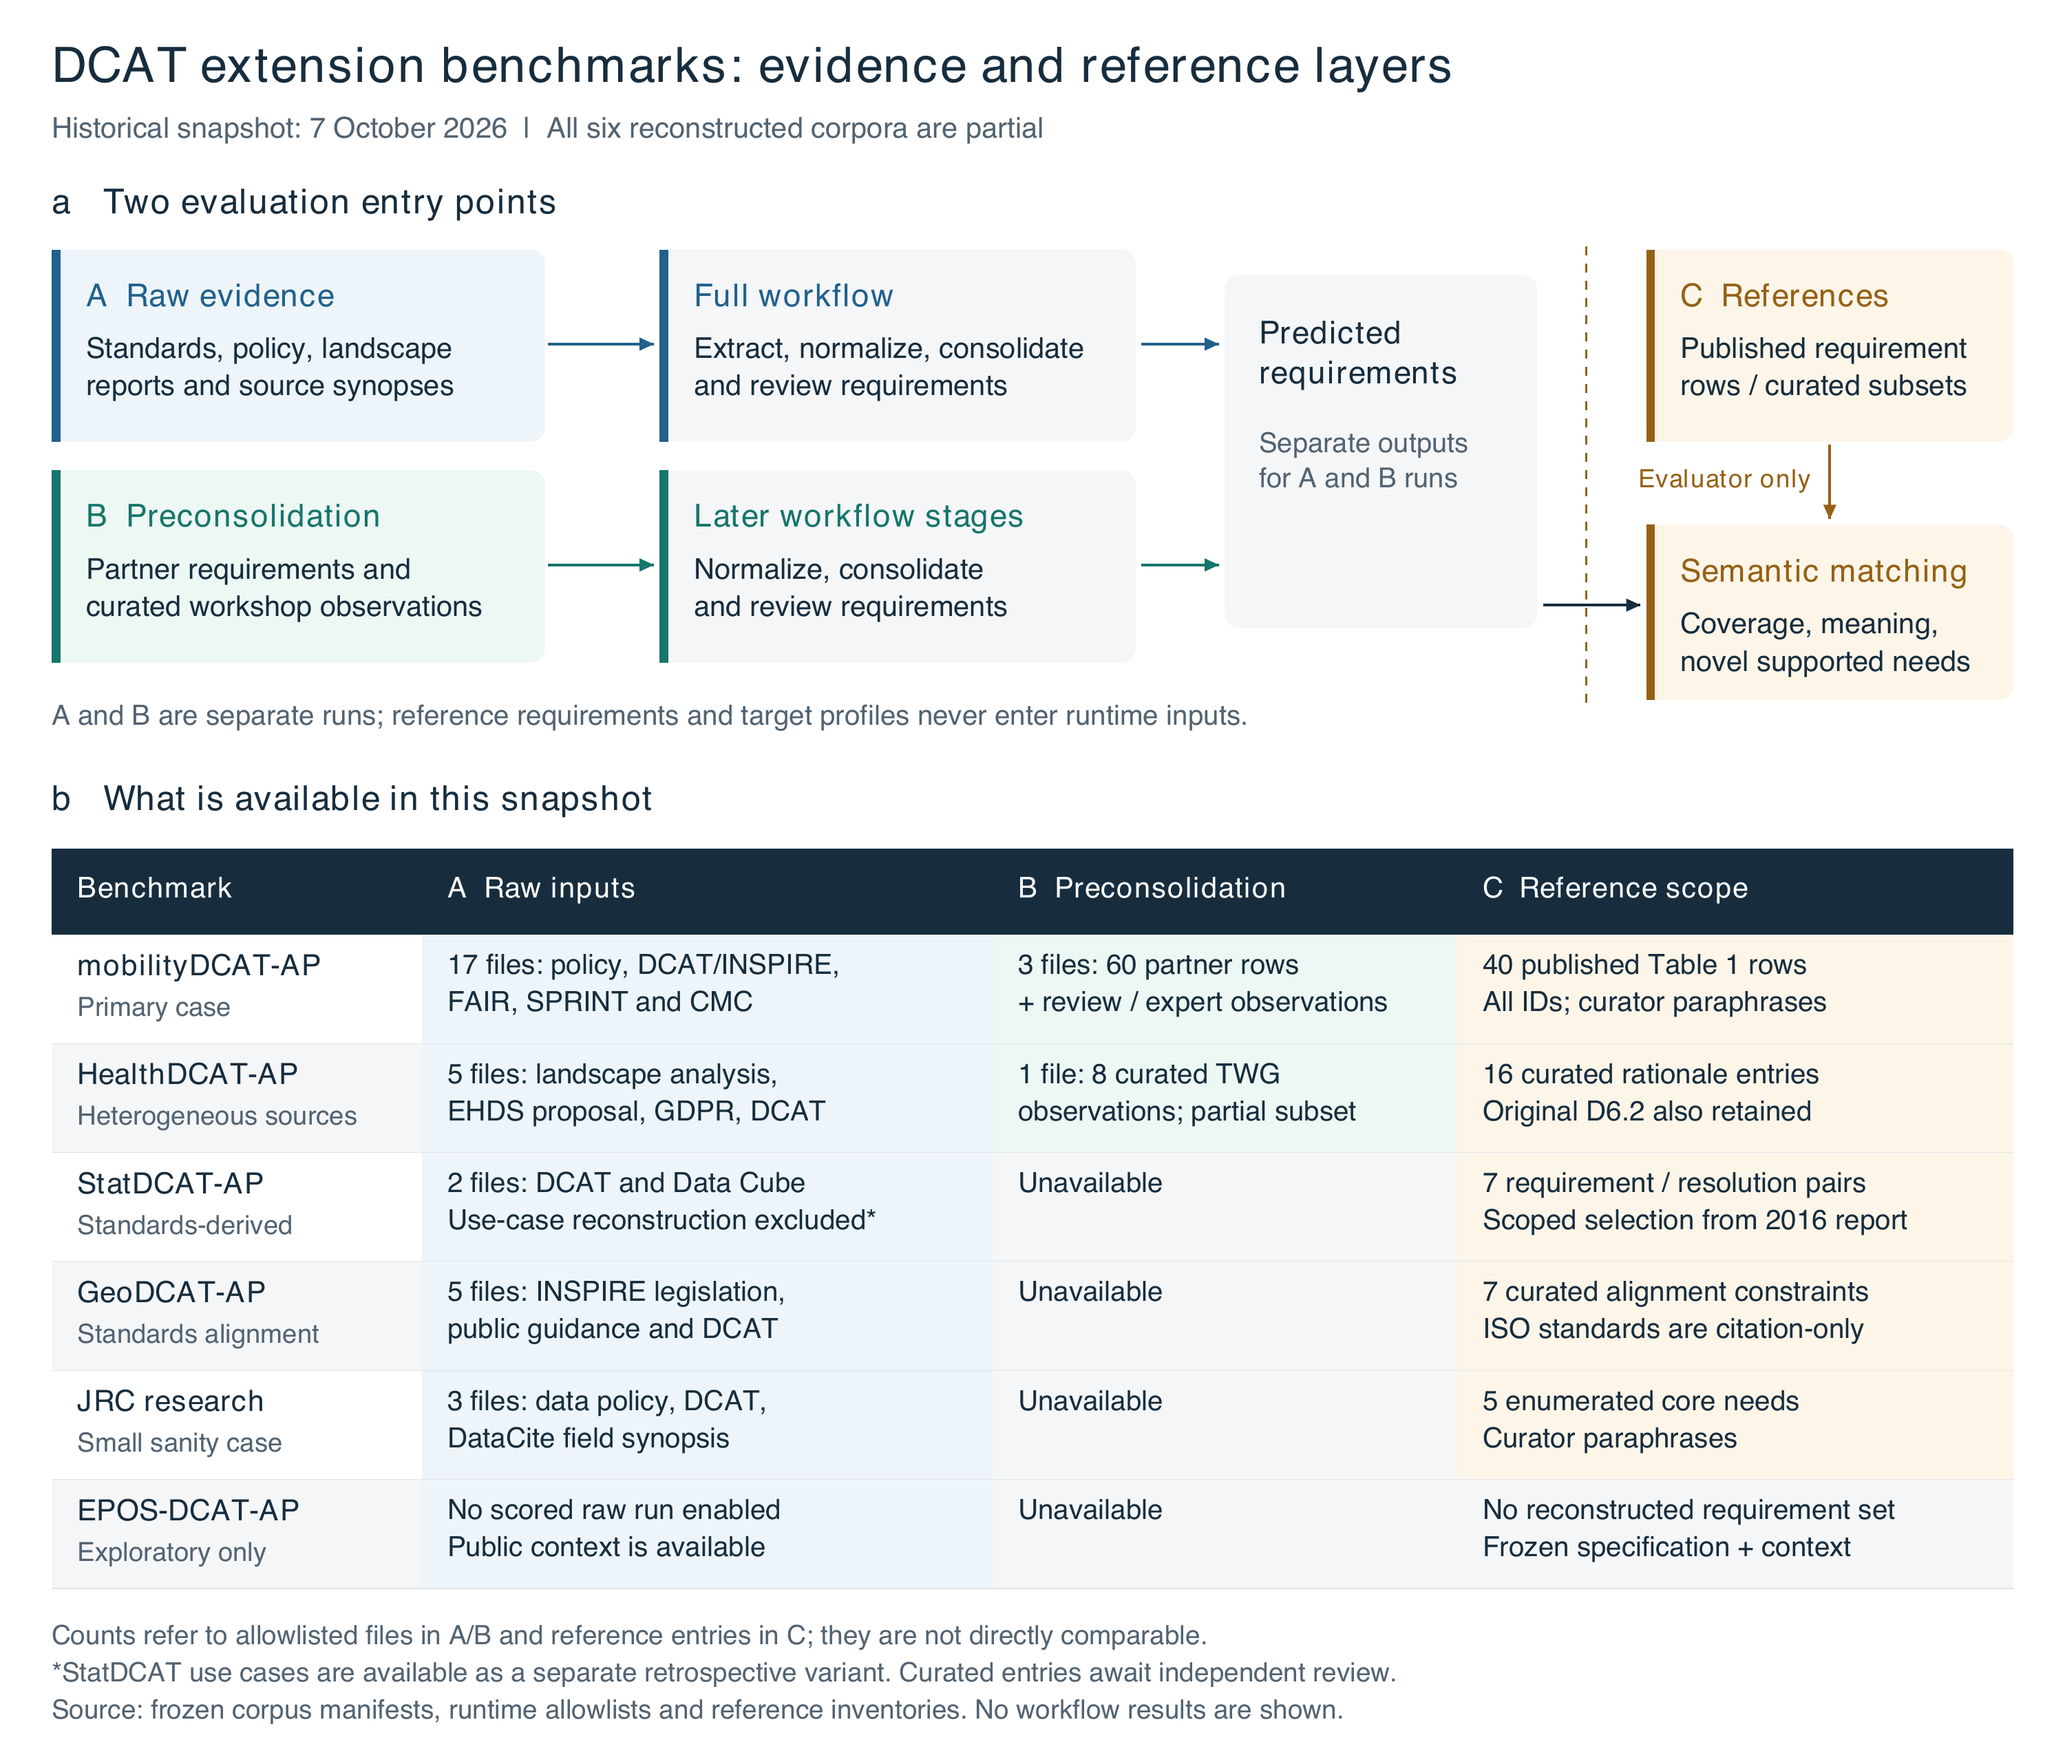
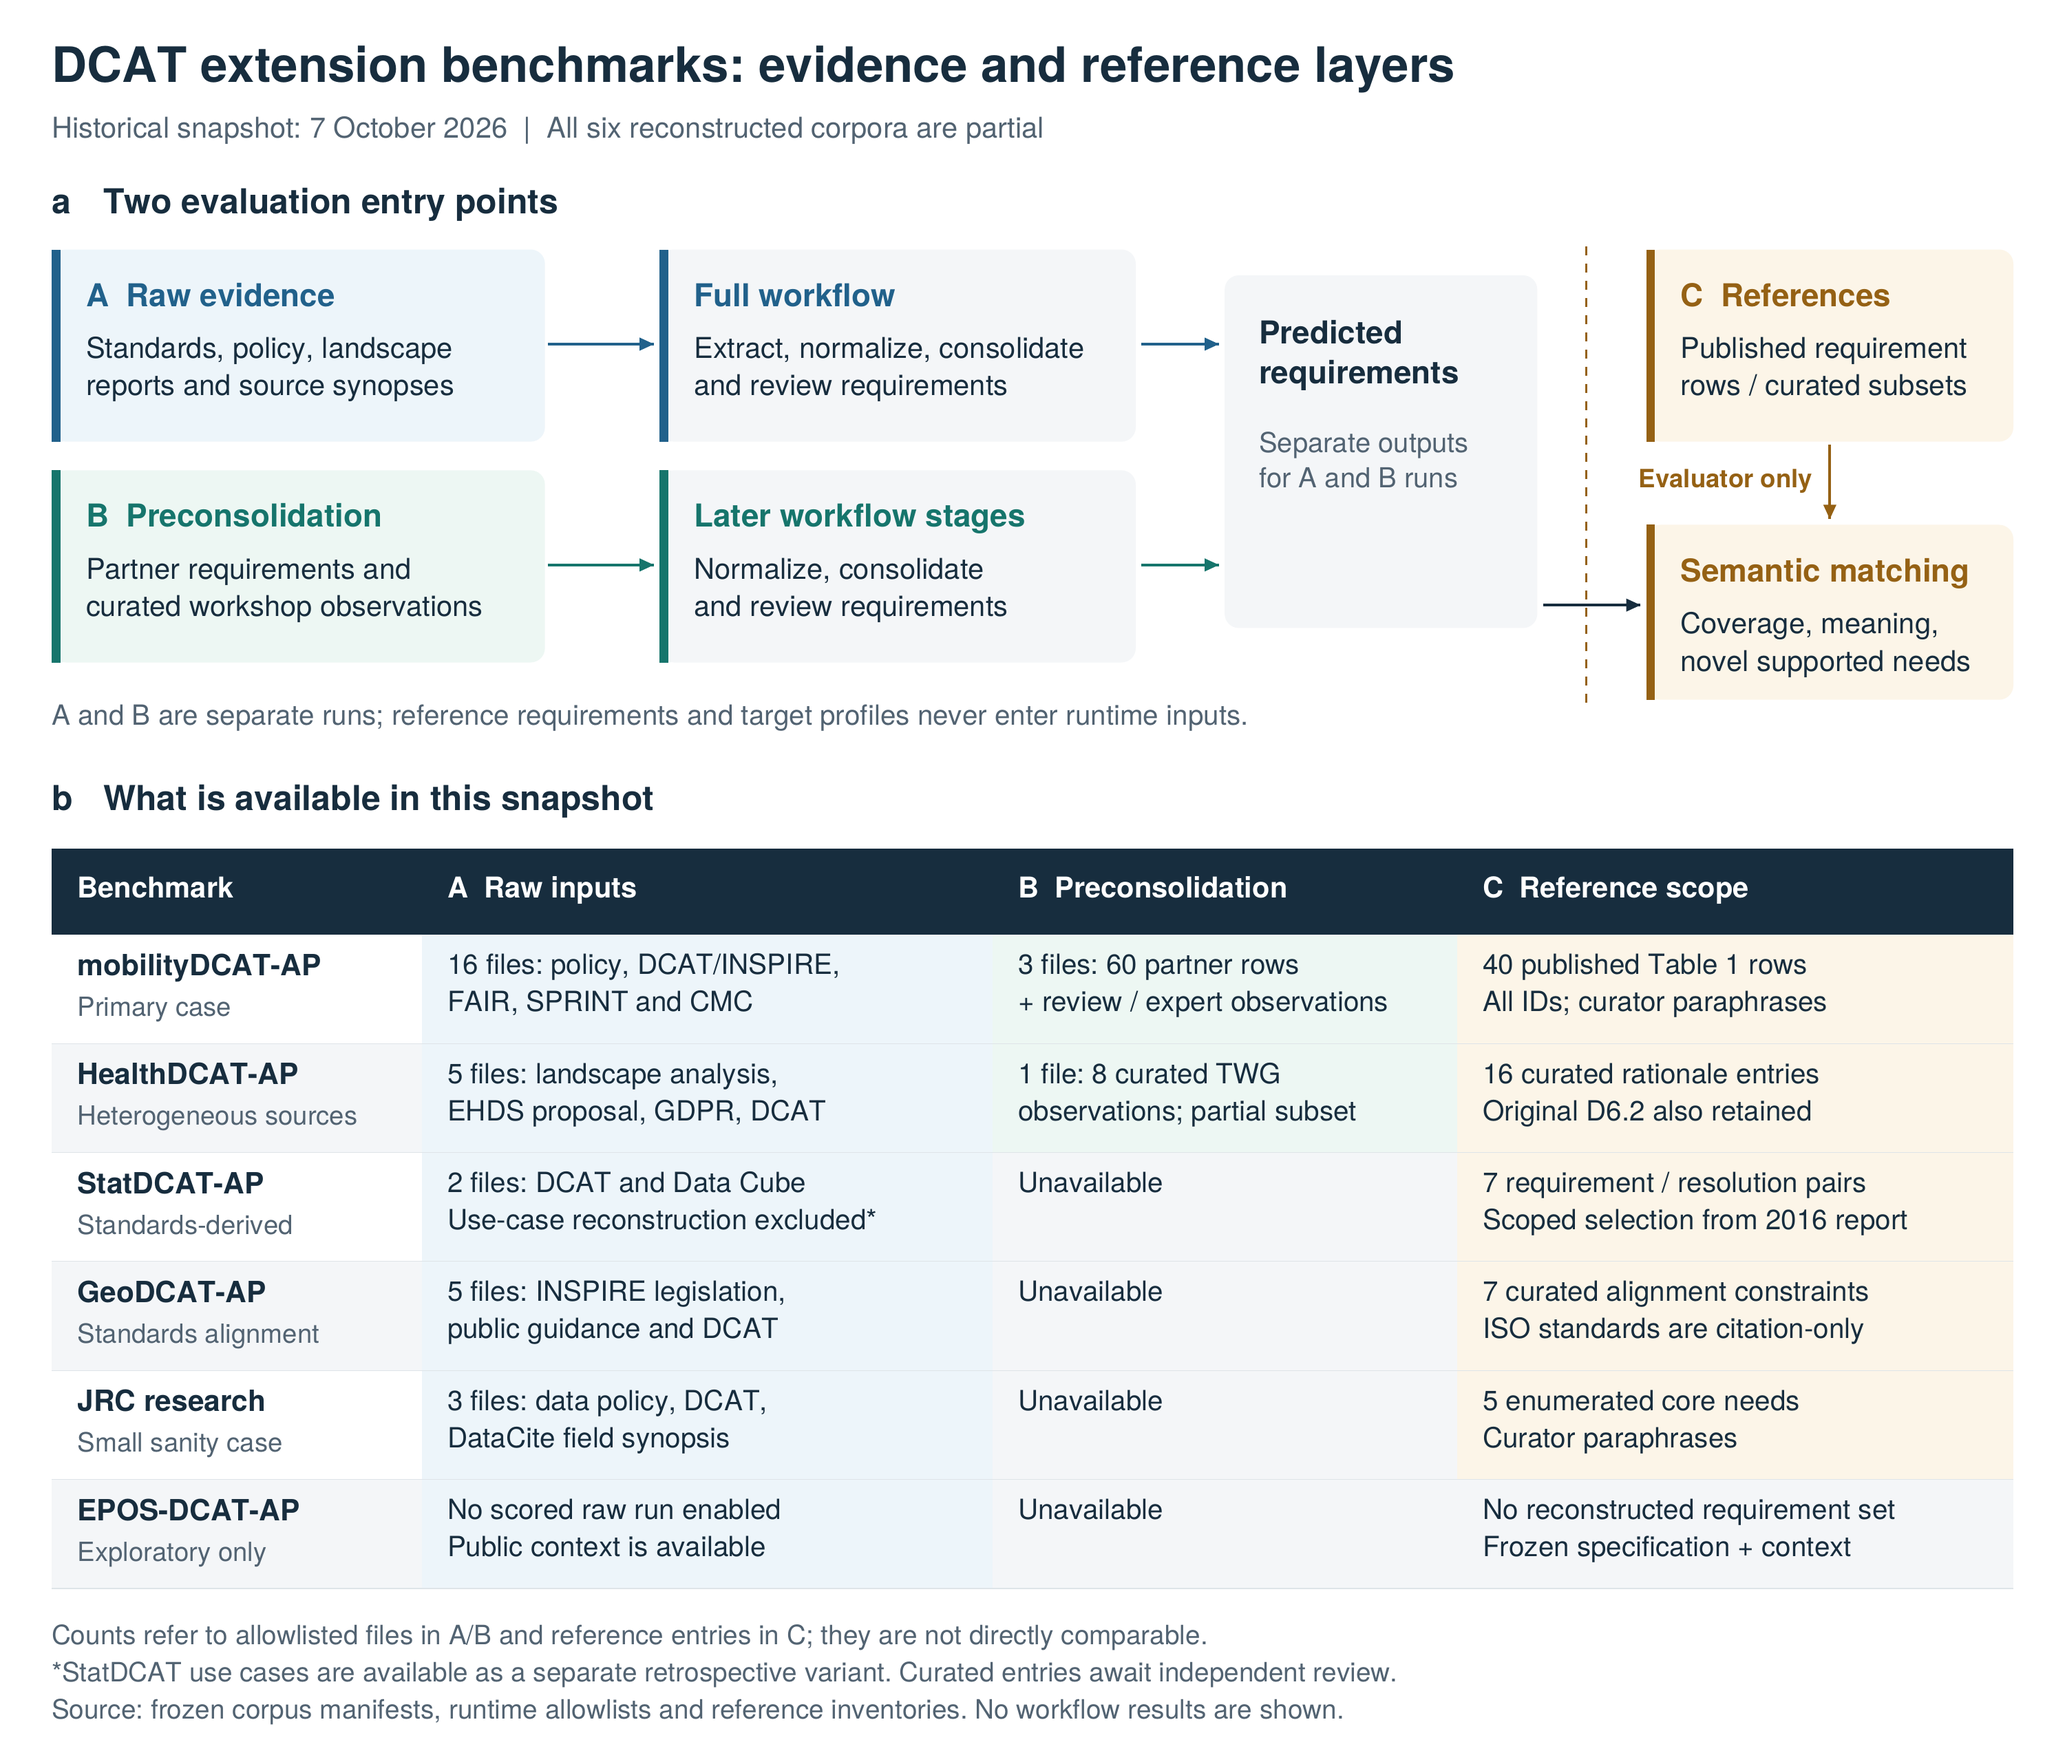
Remove the SEMIC webinar deck from the mobilityDCAT-AP raw inputs
Page 19 of dcat-ap-webinar-1-2021.pdf is the DCAT-AP UML figure as an image
without extractable text, and the corpus freeze rejects such a source, so the
mobilityDCAT-AP corpus could not be frozen. The figure's content is stated in
the DCAT-AP 2.0.0 and 2.1.0 specifications, which remain inputs; OCR of the
figure was unreliable (14 of 40 recognised property names exact). The deck is
not explicitly documented as a NAPCORE input.

- The deck stays in input-raw for provenance; the manifest keeps it with no
  runtime mode and records why. GAPS.md and the case README say so.
- Raw inputs 17 -> 16. Figure 1 is rebuilt with its script (one label
  changes; the PNG is rendered at the original 300 dpi). The validation
  report's mobilityDCAT-AP raw count is updated; a full rerun with the
  installed pypdf would also change character counts of 14 unrelated PDFs.
- Preflight: the corpus freezes with 1,030 evidence units (1,099 before);
  role selection needs 61 batches (63 before), extraction 279 per role.

Claude-Session: https://claude.ai/code/session_01QNsDyfw8deyogGwer32zz4

diff --git a/benchmark-data/figures/build_figures.py b/benchmark-data/figures/build_figures.py
@@ -54,7 +54,7 @@ refs={
  'jrc-research':('reference-requirements/core-requirements.json','requirements')}
 for c,(f,k) in refs.items():
  data=json.loads((ROOT/c/f).read_text()); counts[c]['reference_entries']=len(data[k])
-assert [counts[c]['raw'] for c in ['mobilitydcat','healthdcat','statdcat','geodcat','jrc-research','epos']]==[17,5,2,5,3,0]
+assert [counts[c]['raw'] for c in ['mobilitydcat','healthdcat','statdcat','geodcat','jrc-research','epos']]==[16,5,2,5,3,0]
 assert [counts[c]['reference_entries'] for c in ['mobilitydcat','healthdcat','statdcat','geodcat','jrc-research']]==[40,16,7,7,5]
 assert len(json.loads((ROOT/'healthdcat/input-preconsolidation/twg-observations.json').read_text())['observations'])==8
 assert len(json.loads((ROOT/'mobilitydcat/input-preconsolidation/partner-requirements.json').read_text())['candidates'])==60
@@ -86,7 +86,7 @@ cols=[18,147,346,508,702]
 rect(d,18,296,684,30,INK)
 for x,s in [(27,'Benchmark'),(156,'A  Raw inputs'),(355,'B  Preconsolidation'),(517,'C  Reference scope')]:txt(d,x,305,s,10,'#FFFFFF',True)
 rows=[
-('mobilityDCAT-AP','Primary case',['17 files: policy, DCAT/INSPIRE,','FAIR, SPRINT and CMC'],['3 files: 60 partner rows','+ review / expert observations'],['40 published Table 1 rows','All IDs; curator paraphrases']),
+('mobilityDCAT-AP','Primary case',['16 files: policy, DCAT/INSPIRE,','FAIR, SPRINT and CMC'],['3 files: 60 partner rows','+ review / expert observations'],['40 published Table 1 rows','All IDs; curator paraphrases']),
 ('HealthDCAT-AP','Heterogeneous sources',['5 files: landscape analysis,','EHDS proposal, GDPR, DCAT'],['1 file: 8 curated TWG','observations; partial subset'],['16 curated rationale entries','Original D6.2 also retained']),
 ('StatDCAT-AP','Standards-derived',['2 files: DCAT and Data Cube','Use-case reconstruction excluded*'],['Unavailable'],['7 requirement / resolution pairs','Scoped selection from 2016 report']),
 ('GeoDCAT-AP','Standards alignment',['5 files: INSPIRE legislation,','public guidance and DCAT'],['Unavailable'],['7 curated alignment constraints','ISO standards are citation-only']),

diff --git a/docs/CURRENT_VALIDATION_STATUS.md b/docs/CURRENT_VALIDATION_STATUS.md
@@ -74,7 +74,8 @@ for citation; they do not show that a full run now completes.
   preflight rule the extraction batches per role fall from 16 to 15 (JRC), from 29 to
   20 (StatDCAT) and from 129 to 81 (GeoDCAT).
 - **Role selection.** `RQ1_ROLE_SELECTION_MAX_BATCHES` raises the 32-batch scan limit
-  for new runs. HealthDCAT-AP needs 36 batches and mobilityDCAT-AP 63.
+  for new runs. HealthDCAT-AP needs 36 batches and mobilityDCAT-AP 61 (63 before the
+  webinar deck was removed from its inputs).
 - **Provenance.** The provider description saved with every call now includes the
   reasoning effort, the transport retry limits and the timeout.
 - Offline validation after these changes: 218 tests passed, the exported workflow
@@ -84,10 +85,12 @@ Still open after these changes:
 
 - No live run has been made with them. How often the new recovery paths fire, and
   whether block excerpts change the quality of the cited evidence, is unmeasured.
-- mobilityDCAT-AP cannot be frozen as a corpus. Page 19 of
-  `dcat-ap-webinar-1-2021.pdf` is an image without extractable text (the DCAT-AP UML
-  figure), and the snapshot check rejects a source with such a page. This needs a
-  corpus decision: an attributed transcript, a recorded assessment, or removal.
+- Resolved on 12 October 2026: mobilityDCAT-AP could not be frozen as a corpus,
+  because page 19 of `dcat-ap-webinar-1-2021.pdf` is an image without extractable
+  text (the DCAT-AP UML figure). The deck was removed from the runtime inputs; its
+  figure's content is stated in the DCAT-AP 2.0.0 and 2.1.0 specifications, which
+  remain inputs. The corpus now freezes: 16 files, 1,030 evidence units (1,099
+  before), 279 extraction batches per role.
 - The assessment and discussion workload described above is unchanged. Every
   candidate still gets its own assessment call, exact-only consolidation still keeps
   paraphrases, and every flagged pair still becomes a discussion case.

diff --git a/benchmark-data/mobilitydcat/provenance/GAPS.md b/benchmark-data/mobilitydcat/provenance/GAPS.md
@@ -8,6 +8,7 @@ Overall label: **partial**. Acquired on 2026-10-07.
 - Private interviews and unpublished recording files: not recovered.
 - LOD-RoadTran18 originals: titles confirmed on project results page; local HTTPS certificate verification failed, no individual report/licence acquired.
 - 2017 INSPIRE guidance, exact national-profile revisions, all 2021 webinar artifacts, compact Get ready for data variant: not frozen.
+- SEMIC DCAT-AP Webinar #1 deck (2021): saved, but excluded from the runtime corpus on 2026-10-12. Page 19, the DCAT-AP UML figure, is an image without extractable text, and the corpus freeze rejects such a source. OCR of the figure was unreliable (14 of 40 recognised property names exact). The figure's content is stated in the DCAT-AP 2.0.0 and 2.1.0 specifications, which remain inputs; the deck's other 69 pages are lost to raw runs.
 - ISA/Aporta analysis of extensions: source family named in Annex 2 §2.16 but exact publication not resolved.
 - Actual SPRINT slides and full original literature bibliography: not fully recovered.
 

diff --git a/benchmark-data/mobilitydcat/README.md b/benchmark-data/mobilitydcat/README.md
@@ -40,7 +40,9 @@ source groups after its methodology, not a complete copy of the private source f
 The manifest inventories the named groups and unresolved variants; no claim is made that
 all 50 resources were acquired. Exact national-profile versions, all training recordings,
 LOD-RoadTran reports, the 2017 INSPIRE version, and private interviews remain gaps. One official SEMIC 2021 training deck is saved; it is
-not claimed to reconstruct the full Academy webinar series. The served DCAT-AP 2.1.0
+not claimed to reconstruct the full Academy webinar series. The deck is not a runtime
+input: its page 19, the DCAT-AP UML figure, has no extractable text, and the figure's
+content is stated in the DCAT-AP 2.0.0 and 2.1.0 specifications, which are. The served DCAT-AP 2.1.0
 release-path PDF is also saved, with its internal draft-status metadata discrepancy
 recorded in the manifest.
 

diff --git a/docs/ROLE_SELECTION.md b/docs/ROLE_SELECTION.md
@@ -93,7 +93,7 @@ The versioned policy is `rq1-stakeholder-selection-v6`:
    names the number of batches the corpus needs. `RQ1_ROLE_SELECTION_MAX_BATCHES`
    (1–128) sets the limit for new automatic runs; each run saves the limit it started
    with as `max_batches` in its manifest and keeps it on resume. Of the benchmark
-   corpora, HealthDCAT-AP needs 36 batches and mobilityDCAT-AP 63, so both need a
+   corpora, HealthDCAT-AP needs 36 batches and mobilityDCAT-AP 61, so both need a
    raised limit; the other three fit the default.
 2. One logical selector uses the configured provider to discover at most the requested
    panel size per batch (1–8). CQs accompany each batch. Only selected snapshot evidence is loaded;

diff --git a/benchmark-data/figures/README.md b/benchmark-data/figures/README.md
@@ -1,8 +1,10 @@
 # Paper figures: benchmark evidence and requirements
 
 Two original vector figures derived from the frozen 7 October 2026 corpus. Figure
-creation date: 8 October 2026. Both use the same labelled blue/green/ochre A/B/C
-encoding; meaning does not depend on colour alone.
+creation date: 8 October 2026. Figure 1 was rebuilt on 12 October 2026 after the
+SEMIC webinar deck left the mobilityDCAT-AP raw inputs (17 to 16 files). Both use
+the same labelled blue/green/ochre A/B/C encoding; meaning does not depend on colour
+alone.
 
 ## Figure 1: benchmark evidence map
 
